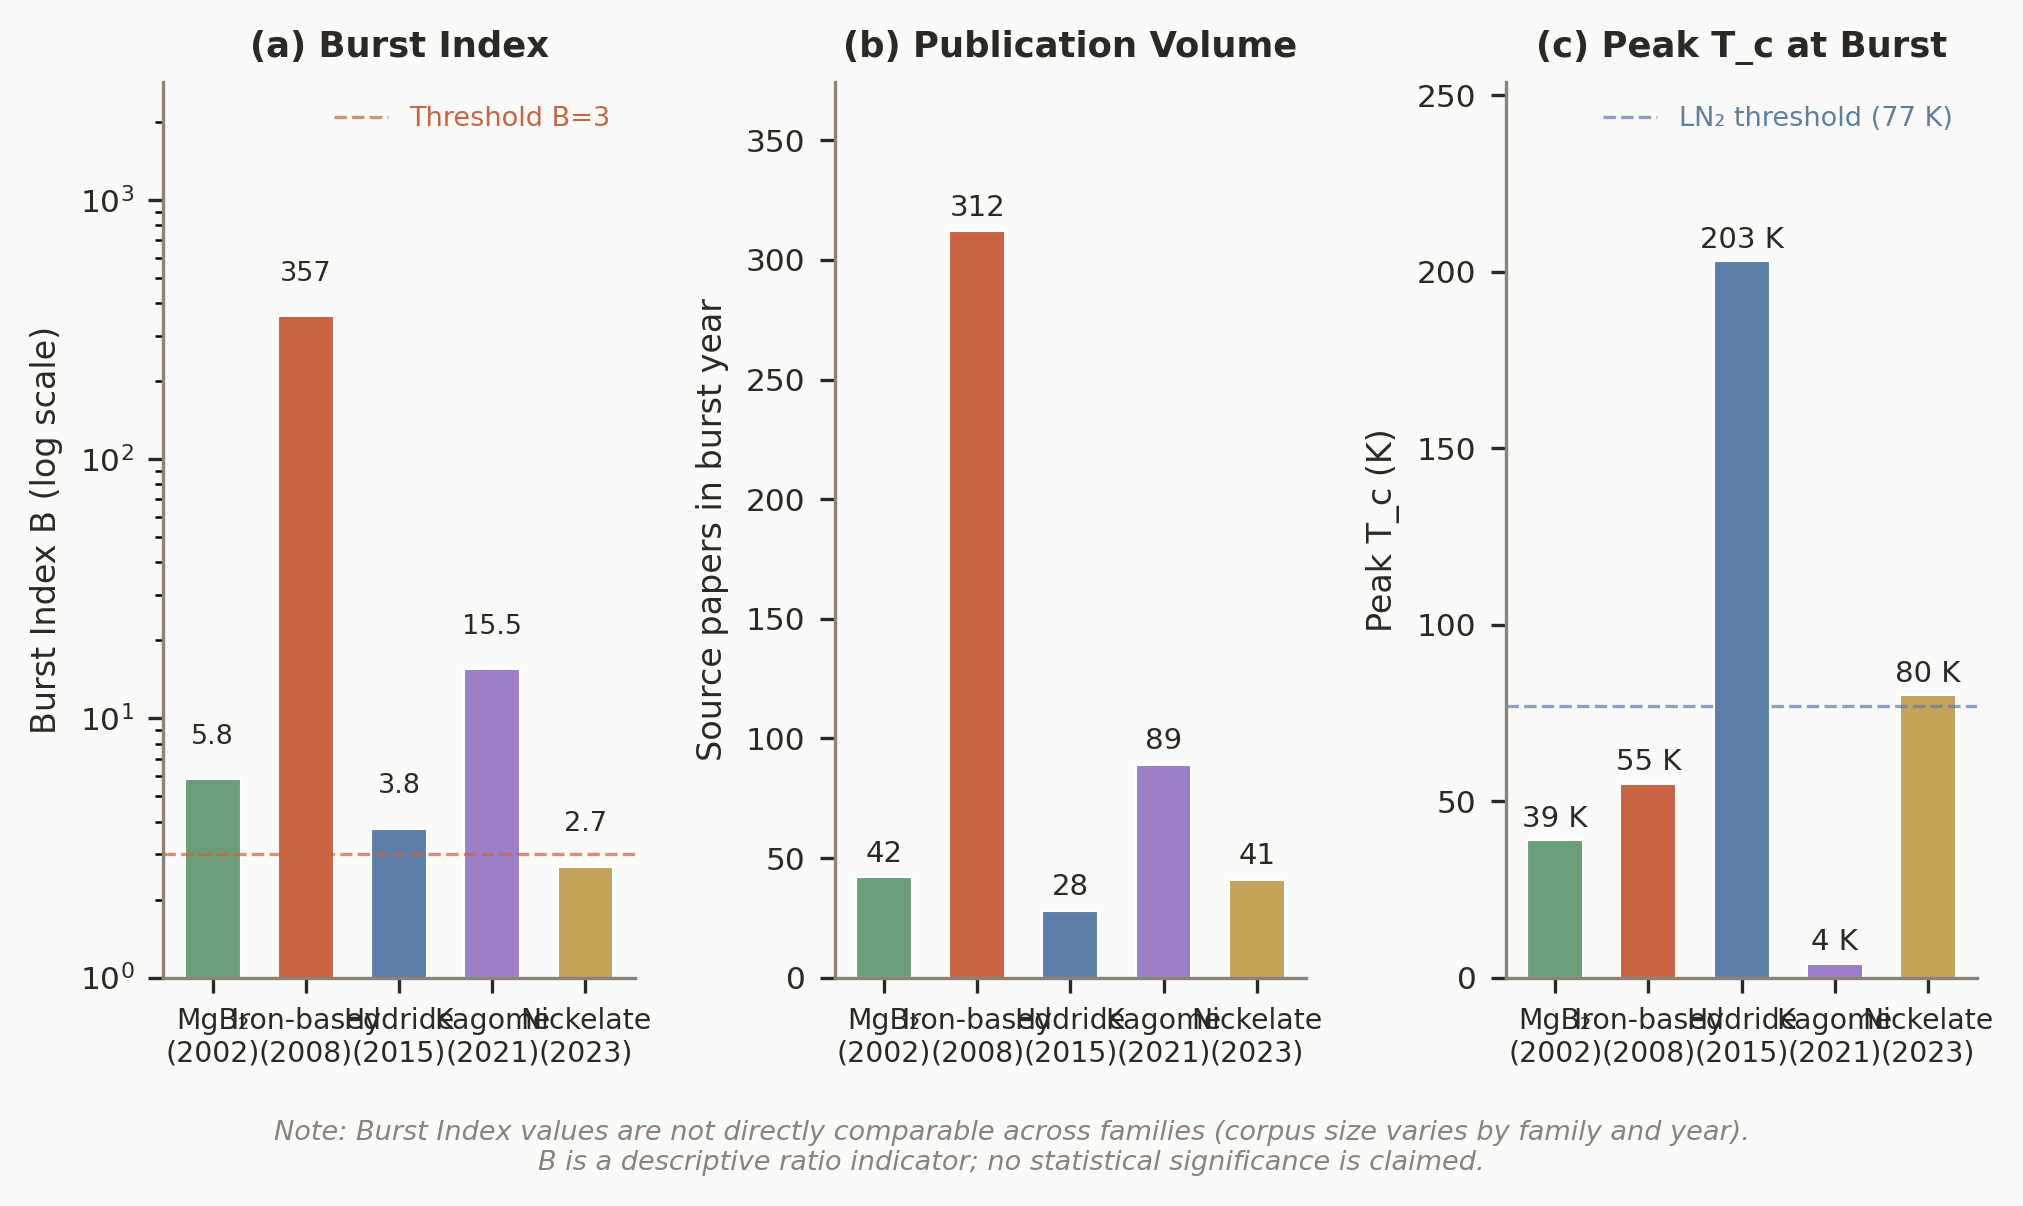
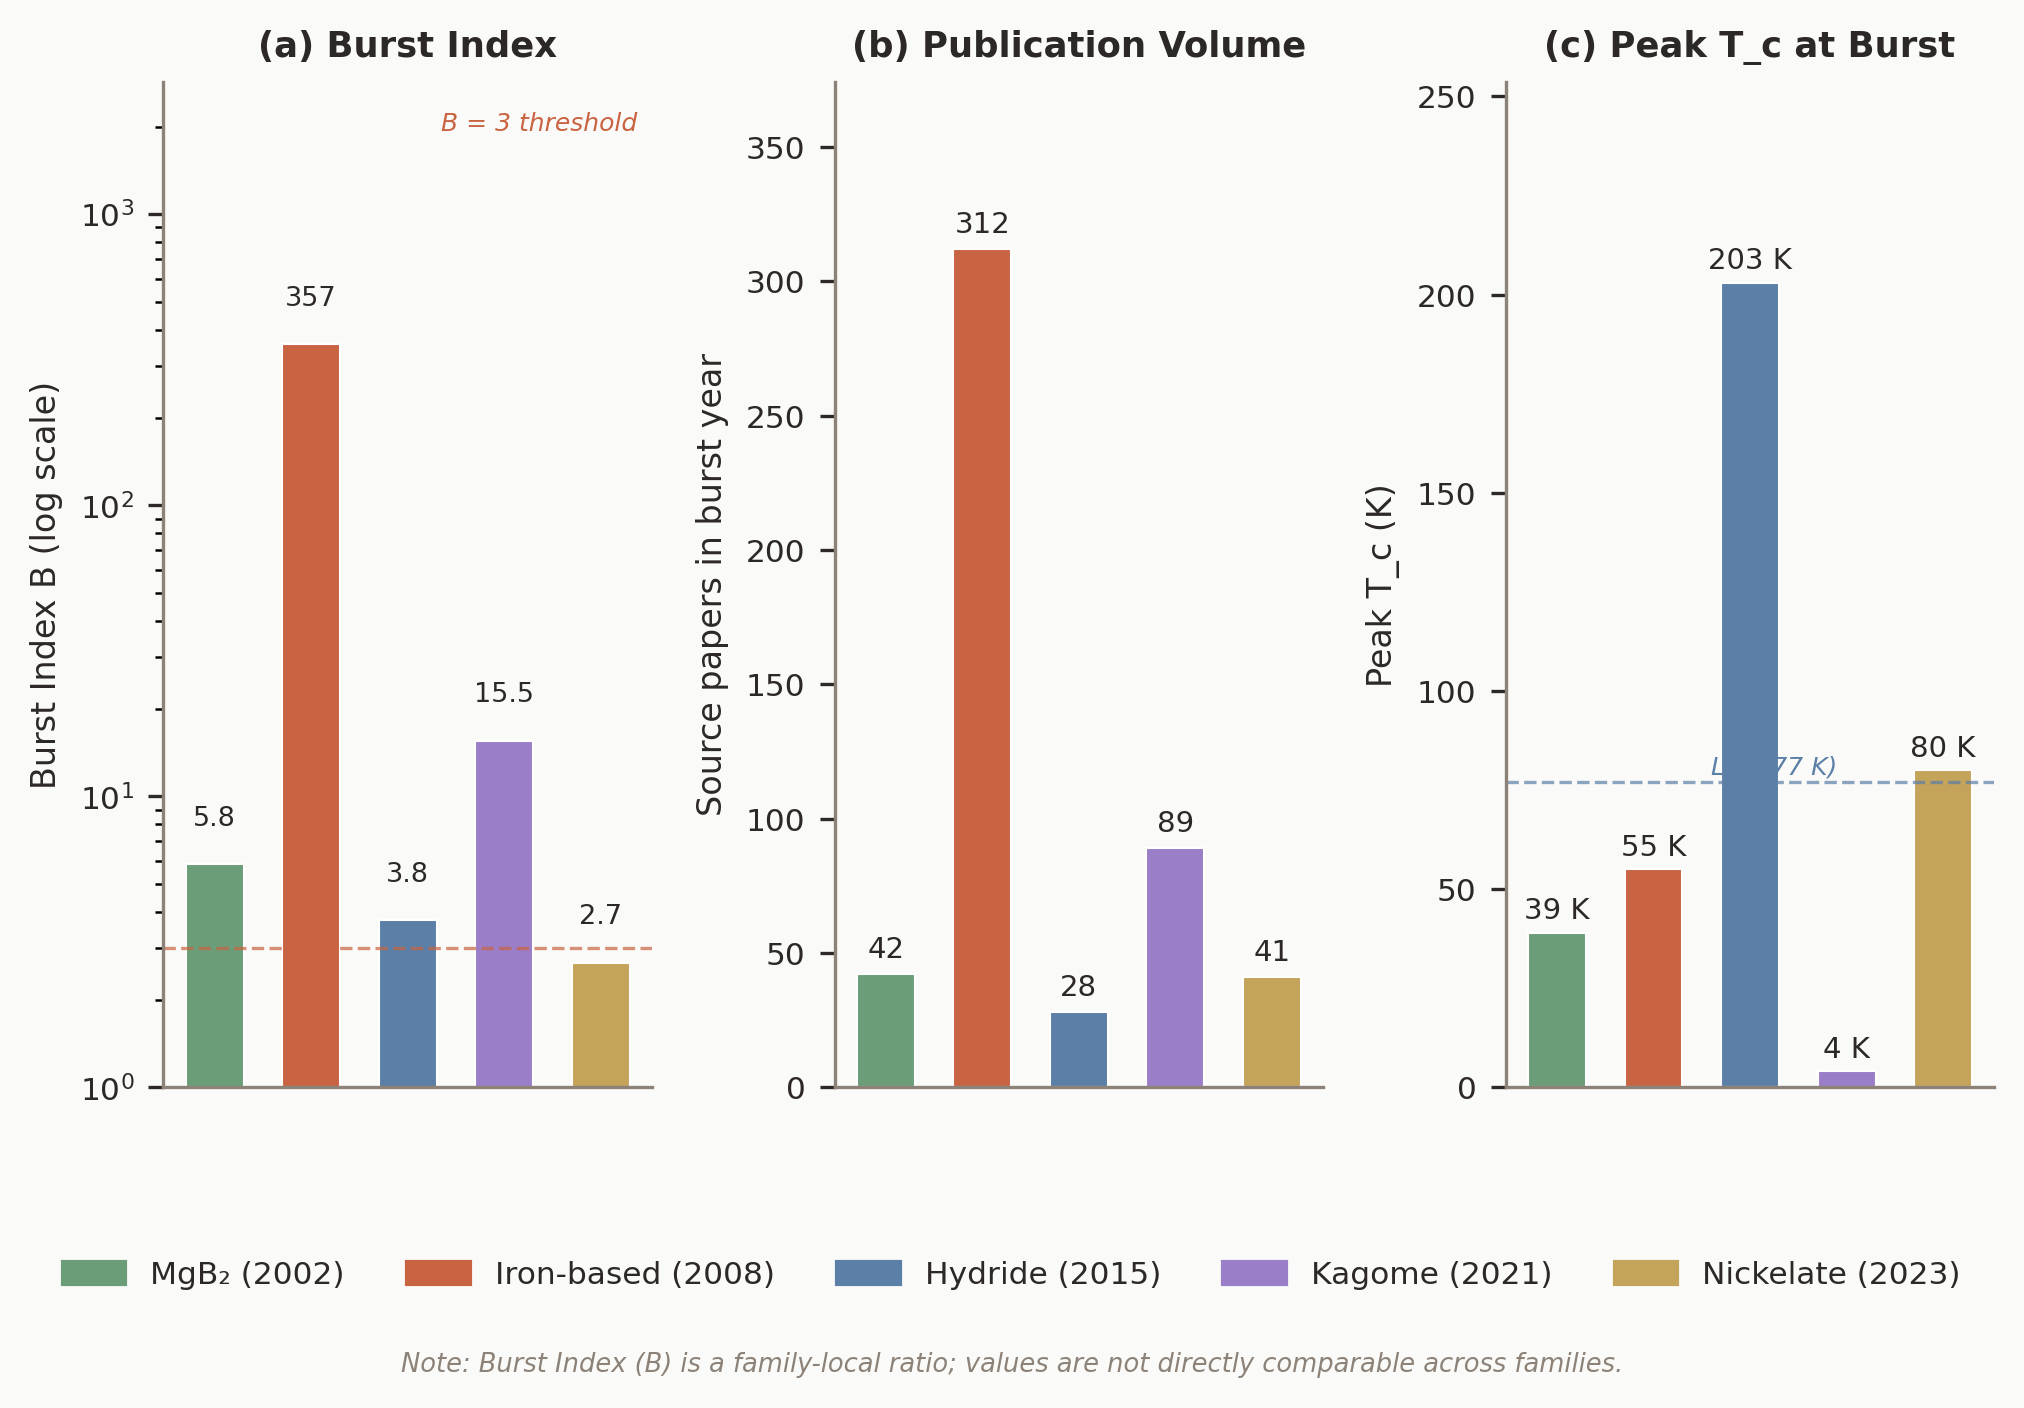
Revision R3b: APS outlook paragraph, burst bar legend fix

diff --git a/notebooks/generate_burst_bar.py b/notebooks/generate_burst_bar.py
@@ -33,7 +33,7 @@ events = [
     {"family": "Nickelate",    "year": 2023, "BS": 2.68,  "papers": 41,  "peak_tc": 80,  "color": "#C4A35A"},
 ]
 
-fig, axes = plt.subplots(1, 3, figsize=(6.85, 4.0))
+fig, axes = plt.subplots(1, 3, figsize=(6.85, 4.5))
 fig.patch.set_facecolor(BG)
 for ax in axes:
     ax.set_facecolor(BG)
@@ -42,11 +42,19 @@ for ax in axes:
     ax.spines['left'].set_color(WARM_GRAY)
     ax.spines['bottom'].set_color(WARM_GRAY)
     ax.tick_params(colors=CHARCOAL, labelsize=7.5)
+    # No x-axis labels — use shared legend instead
+    ax.set_xticks([])
 
-labels = [f"{e['family']}\n({e['year']})" for e in events]
 colors = [e['color'] for e in events]
 x = np.arange(len(events))
 bar_w = 0.6
+
+# ── Shared legend patches ─────────────────────────────────────────────────────
+legend_patches = [
+    mpatches.Patch(color=e['color'],
+                   label=f"{e['family']} ({e['year']})")
+    for e in events
+]
 
 # ── Panel A: Burst Index (log scale) ─────────────────────────────────────────
 ax = axes[0]
@@ -54,14 +62,12 @@ bs_vals = [e['BS'] for e in events]
 bars = ax.bar(x, bs_vals, width=bar_w, color=colors, edgecolor='white', linewidth=0.5)
 ax.set_yscale('log')
 ax.axhline(3.0, color=RUST, lw=0.8, ls='--', alpha=0.7, label='Threshold B=3')
-ax.set_xticks(x)
-ax.set_xticklabels(labels, fontsize=6.8, color=CHARCOAL)
 ax.set_ylabel('Burst Index B (log scale)', fontsize=8, color=CHARCOAL)
 ax.set_title('(a) Burst Index', fontsize=8.5, color=CHARCOAL, weight='bold', pad=6)
-ax.legend(fontsize=6.5, framealpha=0, labelcolor=RUST)
-# Annotate values
+ax.text(0.97, 0.97, 'B = 3 threshold', transform=ax.transAxes,
+        fontsize=6, color=RUST, ha='right', va='top', style='italic')
 for bar, val in zip(bars, bs_vals):
-    label = f'{val:.1f}' if val < 100 else f'{val:.0f}'
+    label = f'{val:.1f}' if val < 100 else f'{int(val)}'
     ax.text(bar.get_x() + bar.get_width()/2, bar.get_height() * 1.3,
             label, ha='center', va='bottom', fontsize=6.5, color=CHARCOAL)
 ax.set_ylim(1, max(bs_vals) * 8)
@@ -71,8 +77,6 @@ ax.yaxis.set_minor_formatter(matplotlib.ticker.NullFormatter())
 ax = axes[1]
 paper_vals = [e['papers'] for e in events]
 bars = ax.bar(x, paper_vals, width=bar_w, color=colors, edgecolor='white', linewidth=0.5)
-ax.set_xticks(x)
-ax.set_xticklabels(labels, fontsize=6.8, color=CHARCOAL)
 ax.set_ylabel('Source papers in burst year', fontsize=8, color=CHARCOAL)
 ax.set_title('(b) Publication Volume', fontsize=8.5, color=CHARCOAL, weight='bold', pad=6)
 for bar, val in zip(bars, paper_vals):
@@ -84,24 +88,28 @@ ax.set_ylim(0, max(paper_vals) * 1.2)
 ax = axes[2]
 tc_vals = [e['peak_tc'] for e in events]
 bars = ax.bar(x, tc_vals, width=bar_w, color=colors, edgecolor='white', linewidth=0.5)
-ax.axhline(77, color='#5B7FA6', lw=0.8, ls='--', alpha=0.7, label='LN₂ threshold (77 K)')
-ax.set_xticks(x)
-ax.set_xticklabels(labels, fontsize=6.8, color=CHARCOAL)
+ax.axhline(77, color='#5B7FA6', lw=0.8, ls='--', alpha=0.7)
+ax.text(bar_w * len(events) - 0.1, 79, 'LN₂ (77 K)',
+        fontsize=6, color='#5B7FA6', ha='right', style='italic')
 ax.set_ylabel('Peak T_c (K)', fontsize=8, color=CHARCOAL)
 ax.set_title('(c) Peak T_c at Burst', fontsize=8.5, color=CHARCOAL, weight='bold', pad=6)
-ax.legend(fontsize=6.5, framealpha=0, labelcolor='#5B7FA6')
 for bar, val in zip(bars, tc_vals):
     ax.text(bar.get_x() + bar.get_width()/2, bar.get_height() + 2,
             f'{val} K', ha='center', va='bottom', fontsize=7, color=CHARCOAL)
 ax.set_ylim(0, max(tc_vals) * 1.25)
 
-# ── Note on non-comparability ─────────────────────────────────────────────────
-fig.text(0.5, 0.01,
-    'Note: Burst Index values are not directly comparable across families (corpus size varies by family and year).\n'
-    'B is a descriptive ratio indicator; no statistical significance is claimed.',
-    ha='center', fontsize=6.5, color=WARM_GRAY, style='italic')
+# ── Shared legend (one row at bottom) ─────────────────────────────────────────────────
+fig.legend(handles=legend_patches,
+           loc='lower center', ncol=5,
+           fontsize=7.5, framealpha=0,
+           labelcolor=CHARCOAL,
+           bbox_to_anchor=(0.5, 0.01))
 
-plt.tight_layout(rect=[0, 0.06, 1, 1])
+fig.text(0.5, -0.03,
+    'Note: Burst Index (B) is a family-local ratio; values are not directly comparable across families.',
+    ha='center', fontsize=6.2, color=WARM_GRAY, style='italic')
+
+plt.tight_layout(rect=[0, 0.13, 1, 1])
 
 out = OUT_DIR / "fig_burst_bars.png"
 fig_out = FIG_DIR / "fig_burst_timeline.png"

diff --git a/manuscript/Zhou_Thirty_Years_Of_Superconducting_Materials_Research_1996_2026_A_Scoping_Review_Based_On_A_Provenance_Traced_LLM_Curated_ArXiv_Materials_Database_2026.tex b/manuscript/Zhou_Thirty_Years_Of_Superconducting_Materials_Research_1996_2026_A_Scoping_Review_Based_On_A_Provenance_Traced_LLM_Curated_ArXiv_Materials_Database_2026.tex
@@ -323,6 +323,8 @@ Fourth, a small number of non-English preprints exist in the arXiv corpus and ar
 
 Future work should combine SCLib with direct database exports, manual curation of high-impact records, citation graph analysis, and family-specific validation to identify underexplored material regimes and promising theory-to-experiment translation pathways.
 
+A natural extension of the present work is a parallel scoping review drawing on peer-reviewed journal publications rather than arXiv preprints. The American Physical Society (APS) corpus---encompassing \emph{Physical Review Letters}, \emph{Physical Review B}, and \emph{Physical Review Materials}---represents the dominant peer-reviewed outlet for superconductivity research and provides a complementary evidence base with stricter editorial filtering, explicit acceptance dates, and a higher proportion of experimentally confirmed results relative to the arXiv preprint stream. Applying the SCLib NER pipeline and the PRISMA-ScR scoping methodology to a licensed APS full-text export would make it possible to (i) quantify the fraction of arXiv-reported materials and Tc values that survive peer review, (ii) test whether the five burst waves identified here are contemporaneous with or lag behind their arXiv counterparts---a measure of how rapidly community consensus forms relative to public preprint deposition---and (iii) directly compare the Tc landscape and family distributions between the preprint and published literatures to identify systematic biases introduced by arXiv self-selection. Such a comparison would strengthen the methodological foundation of large-scale materials-literature reviews and is planned as a subsequent phase of the SCLib research programme, contingent on obtaining the necessary corpus access and data-use agreements.
+
 \section{Conclusion}
 
 Three principal findings emerge from the 1996--2026 SCLib corpus. First, the superconducting-materials Tc landscape is stratified rather than continuous: a dense low-temperature region below 50 K, a sparsely populated 50--80 K band, a cuprate-dominated 80--100 K ambient-pressure plateau, and a 150 K+ frontier accessible almost exclusively under megabar pressure. The 134 K experimental ambient-or-low-pressure ceiling set by the Hg-cuprate 1223 family in 1993 has not been displaced in any subsequent year of the corpus. Second, family-level burst analysis identifies five distinct research waves --- MgB$_2$ in 2001--2002, iron-based superconductors in 2008, high-pressure hydrides from 2015 onward, kagome AV$_3$Sb$_5$ in 2021, and nickelates in 2019 and from 2023 onward --- with the iron-based 2008 burst remaining the dominant event in the dataset by every metric. Third, family labels from the production NER pipeline agree at 97.1\% with an independent extractor running the same prompt, supporting the reliability of family-stratified analyses, while numerical Tc and explicit pressure classification remain the two fields most in need of human full-text validation when used quantitatively.